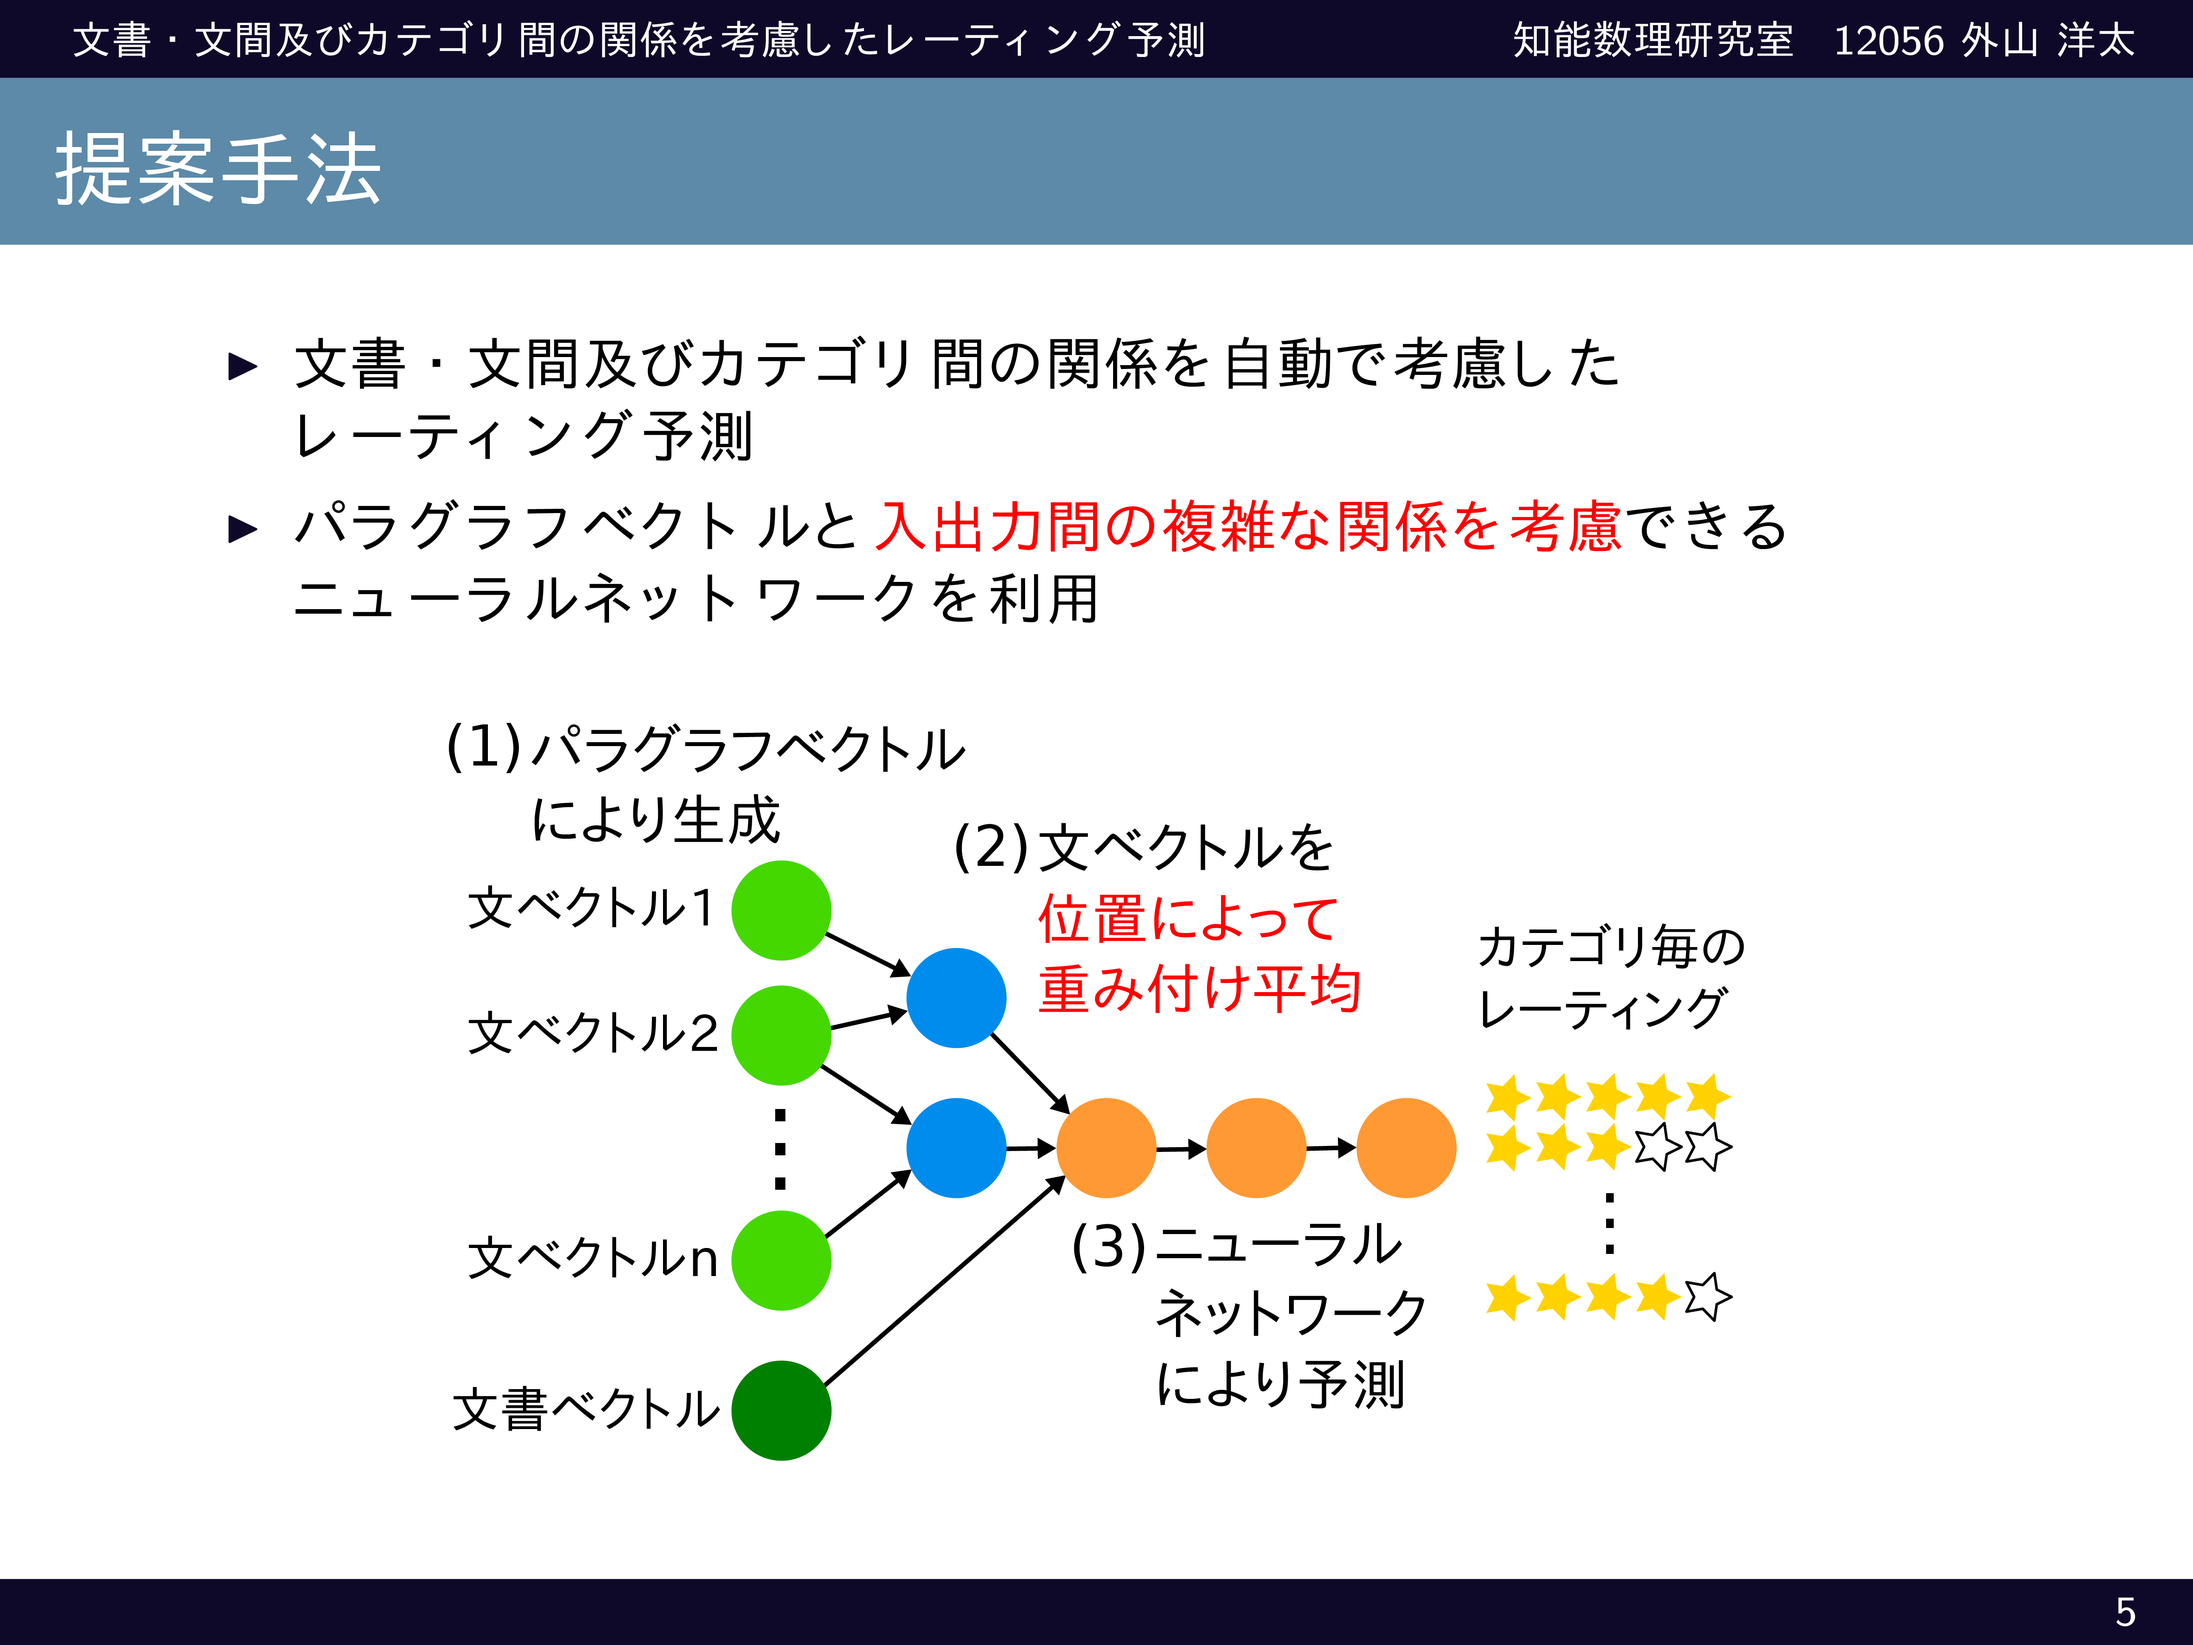
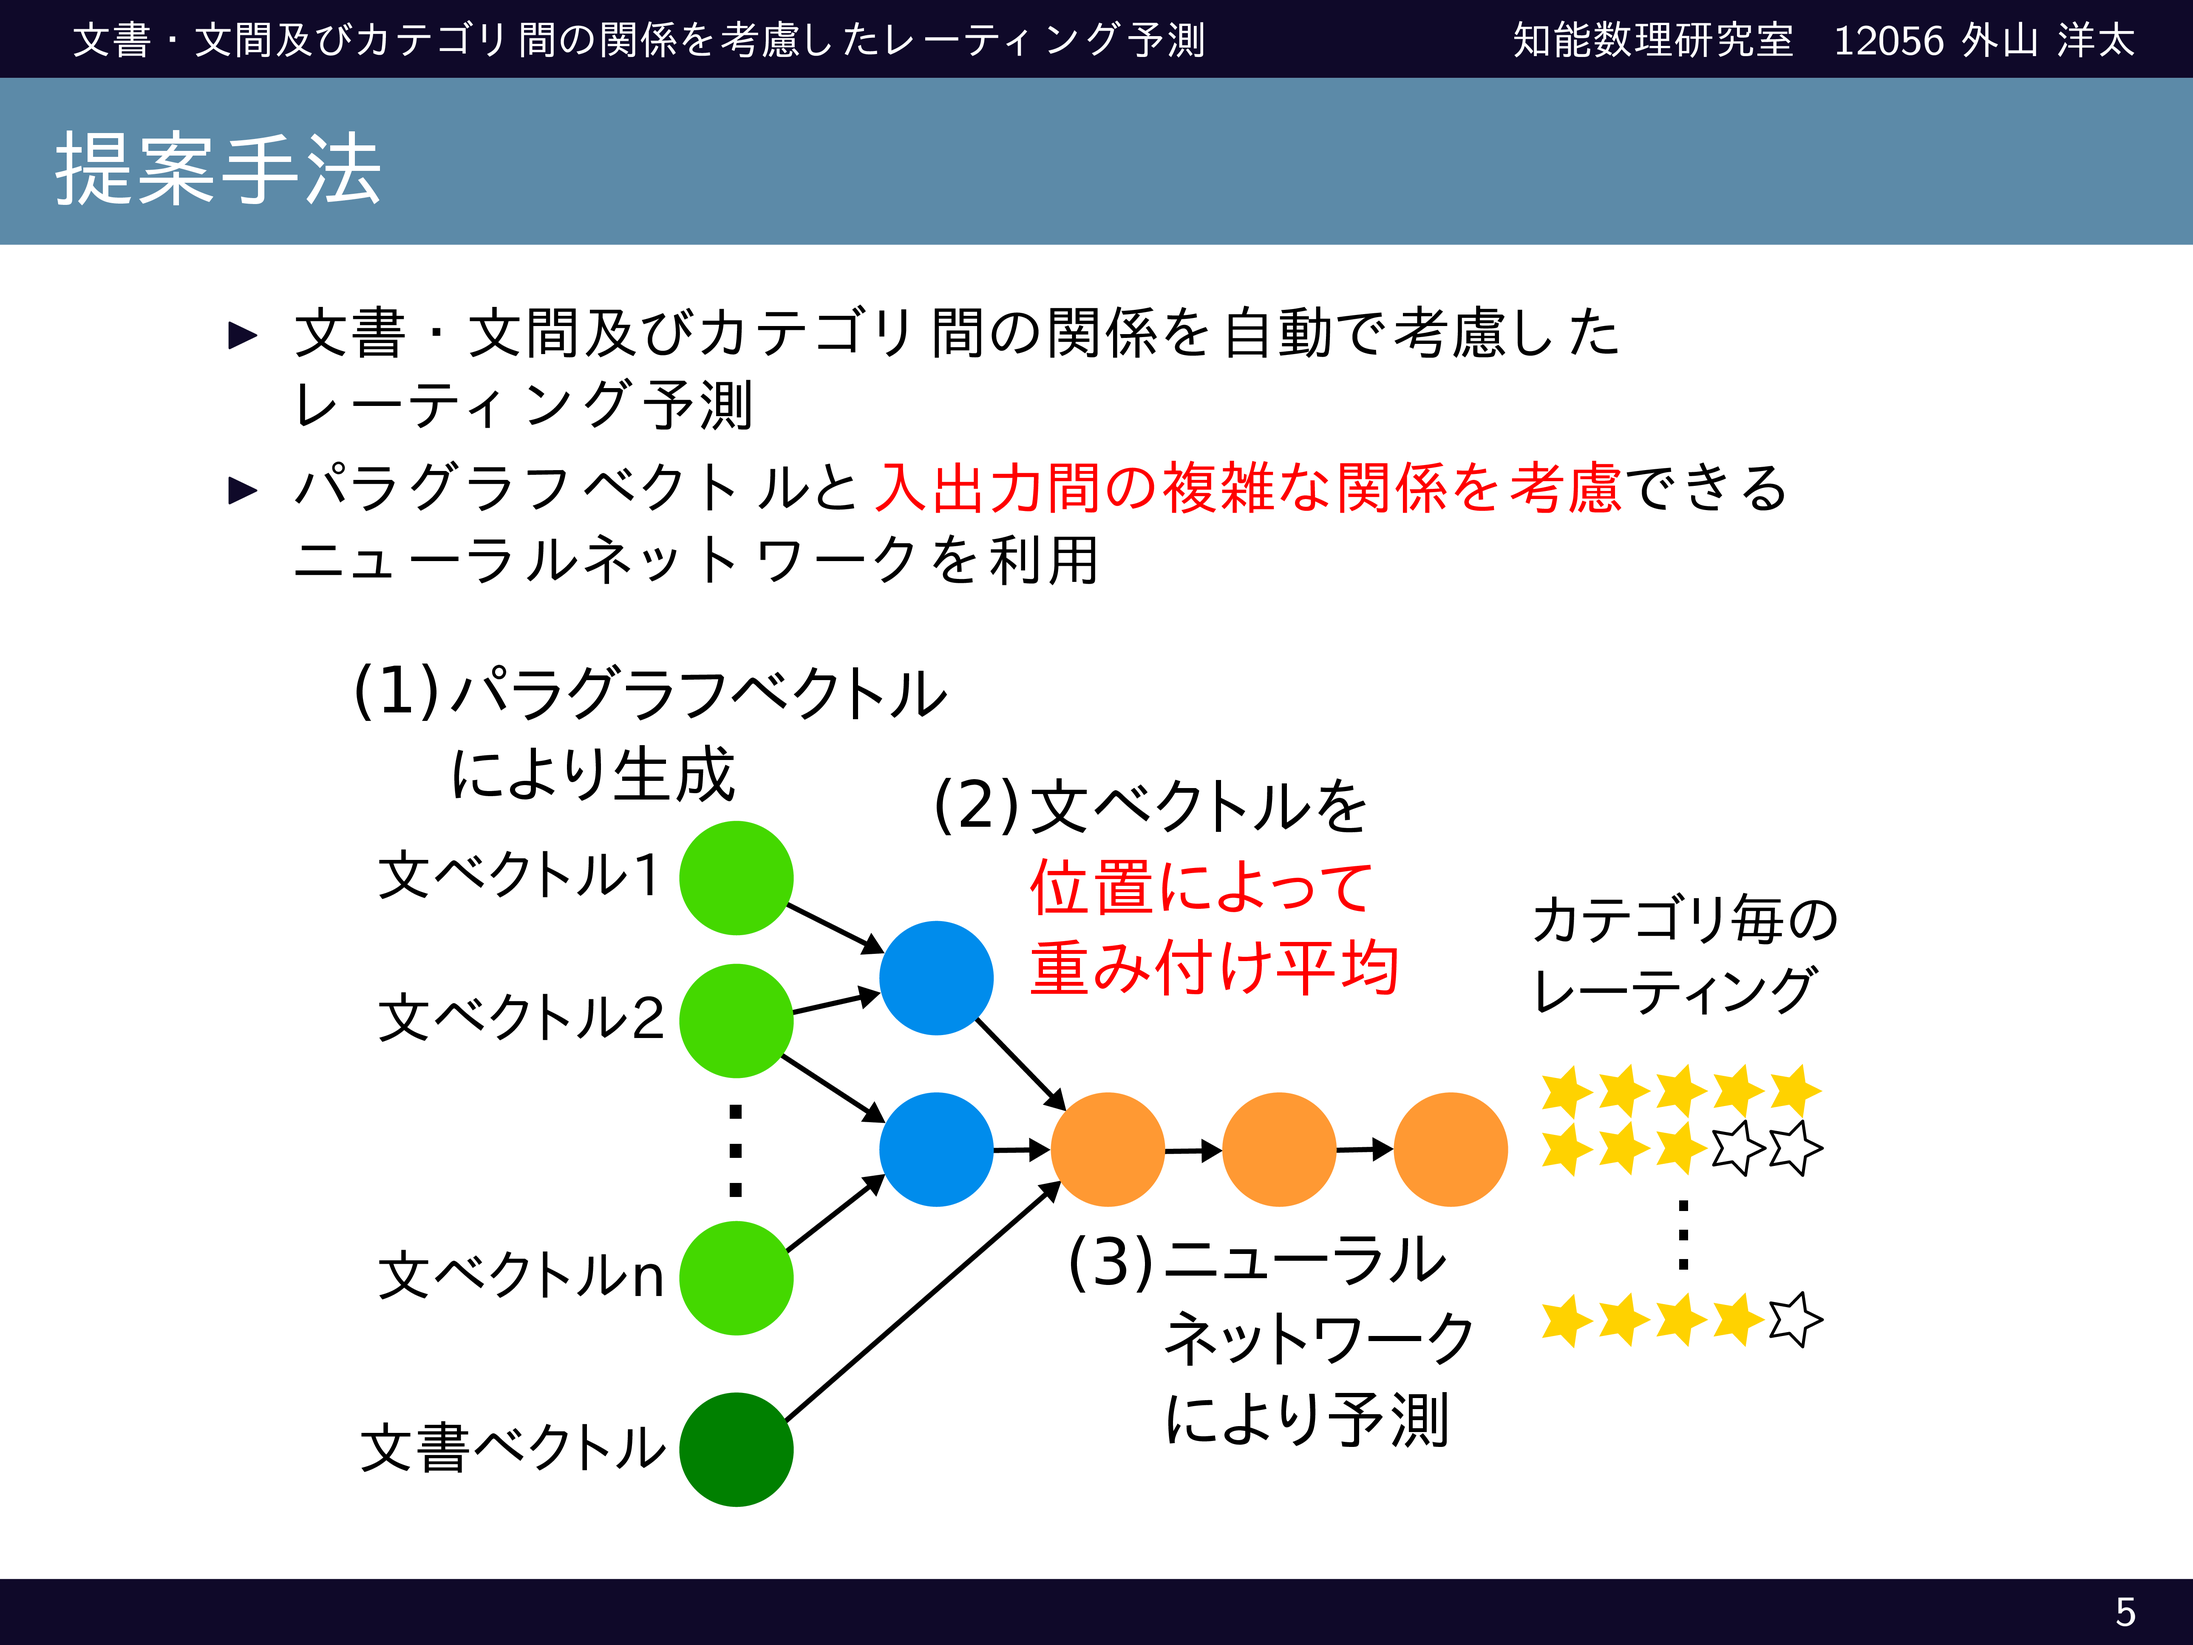
Bigger the figure of the model

Changed region(s): [[0.156, 0.4031, 0.8424, 0.9302], [0.0936, 0.186, 0.8112, 0.3721], [0.6864, 0.5271, 0.8424, 0.6202]]

diff --git a/presentation/presentation.tex b/presentation/presentation.tex
@@ -123,7 +123,7 @@
   %  \item ニューラルネットワークによりレーティングを予測
   %\end{enumerate}
   \begin{figure}
-    \includegraphics[width=0.7\linewidth]
+    \includegraphics[width=0.8\linewidth]
                     {fig/model_with_detailed_processes.pdf}
   \end{figure}
 \end{frame}
